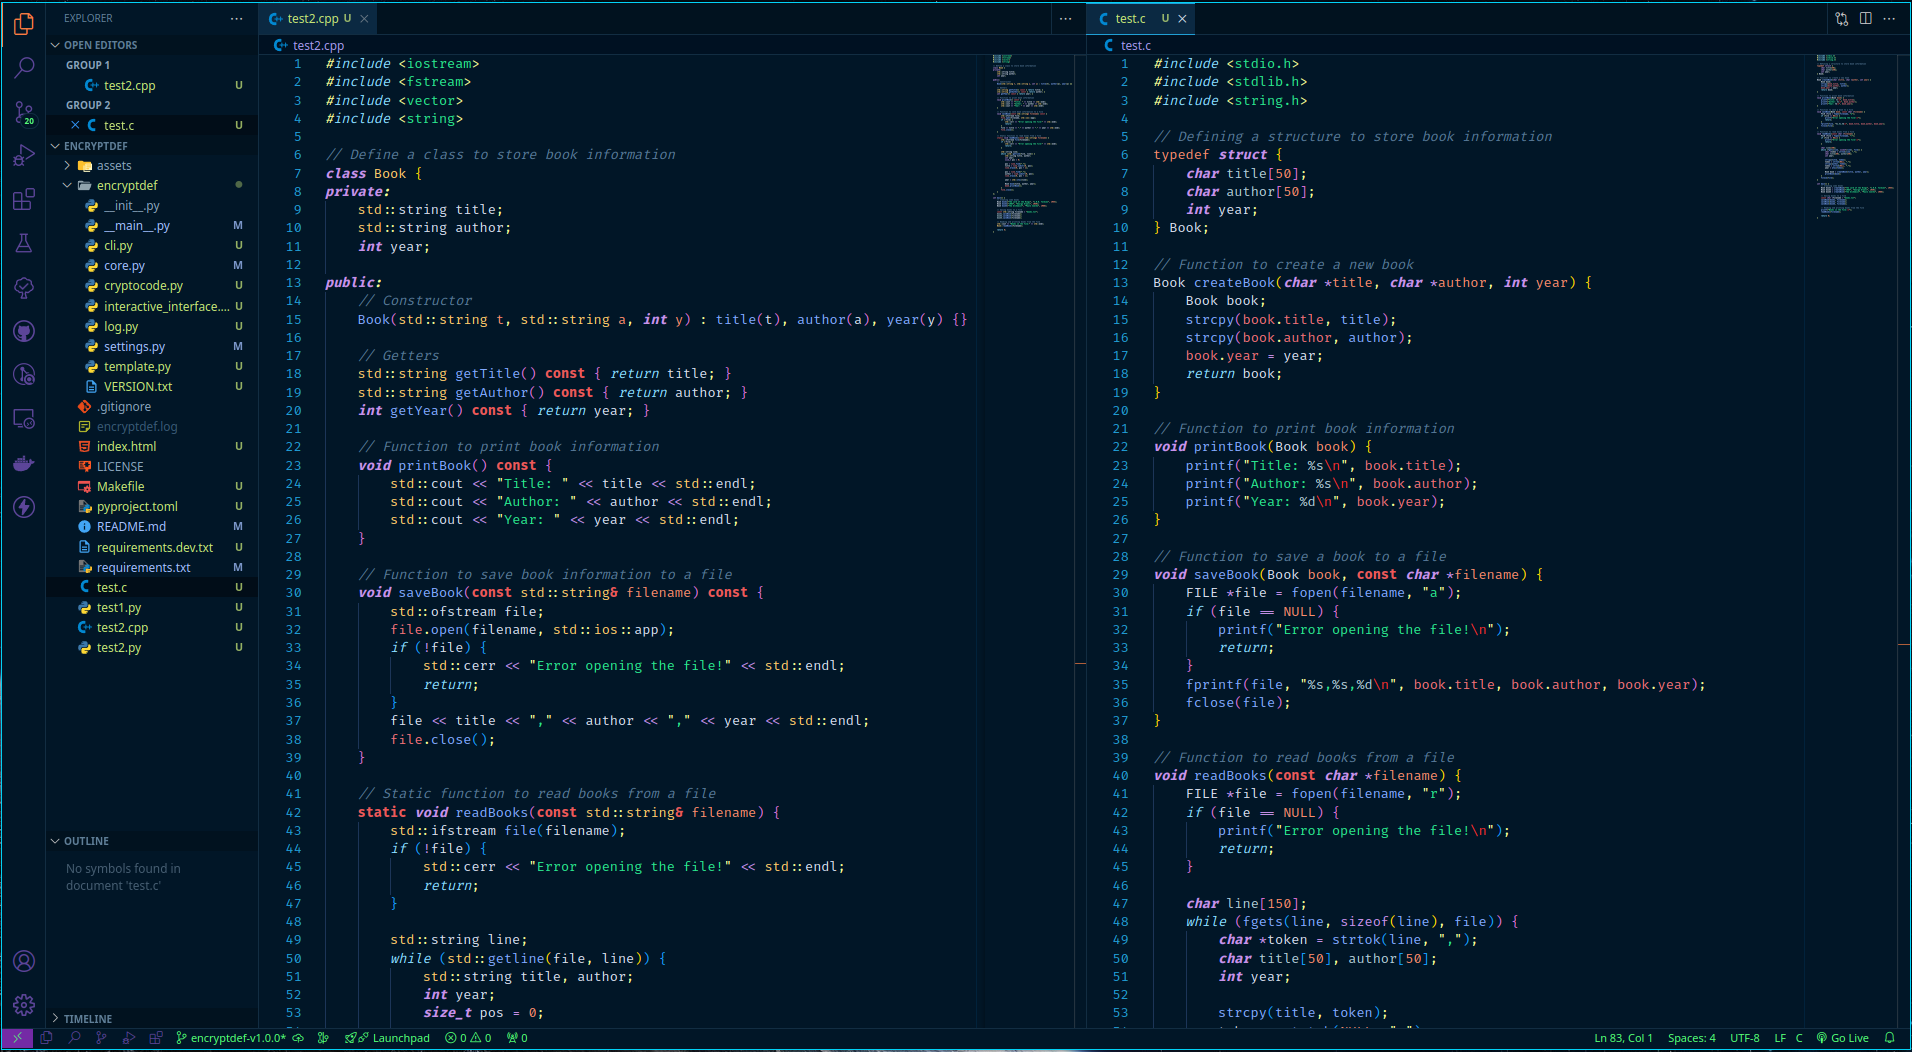
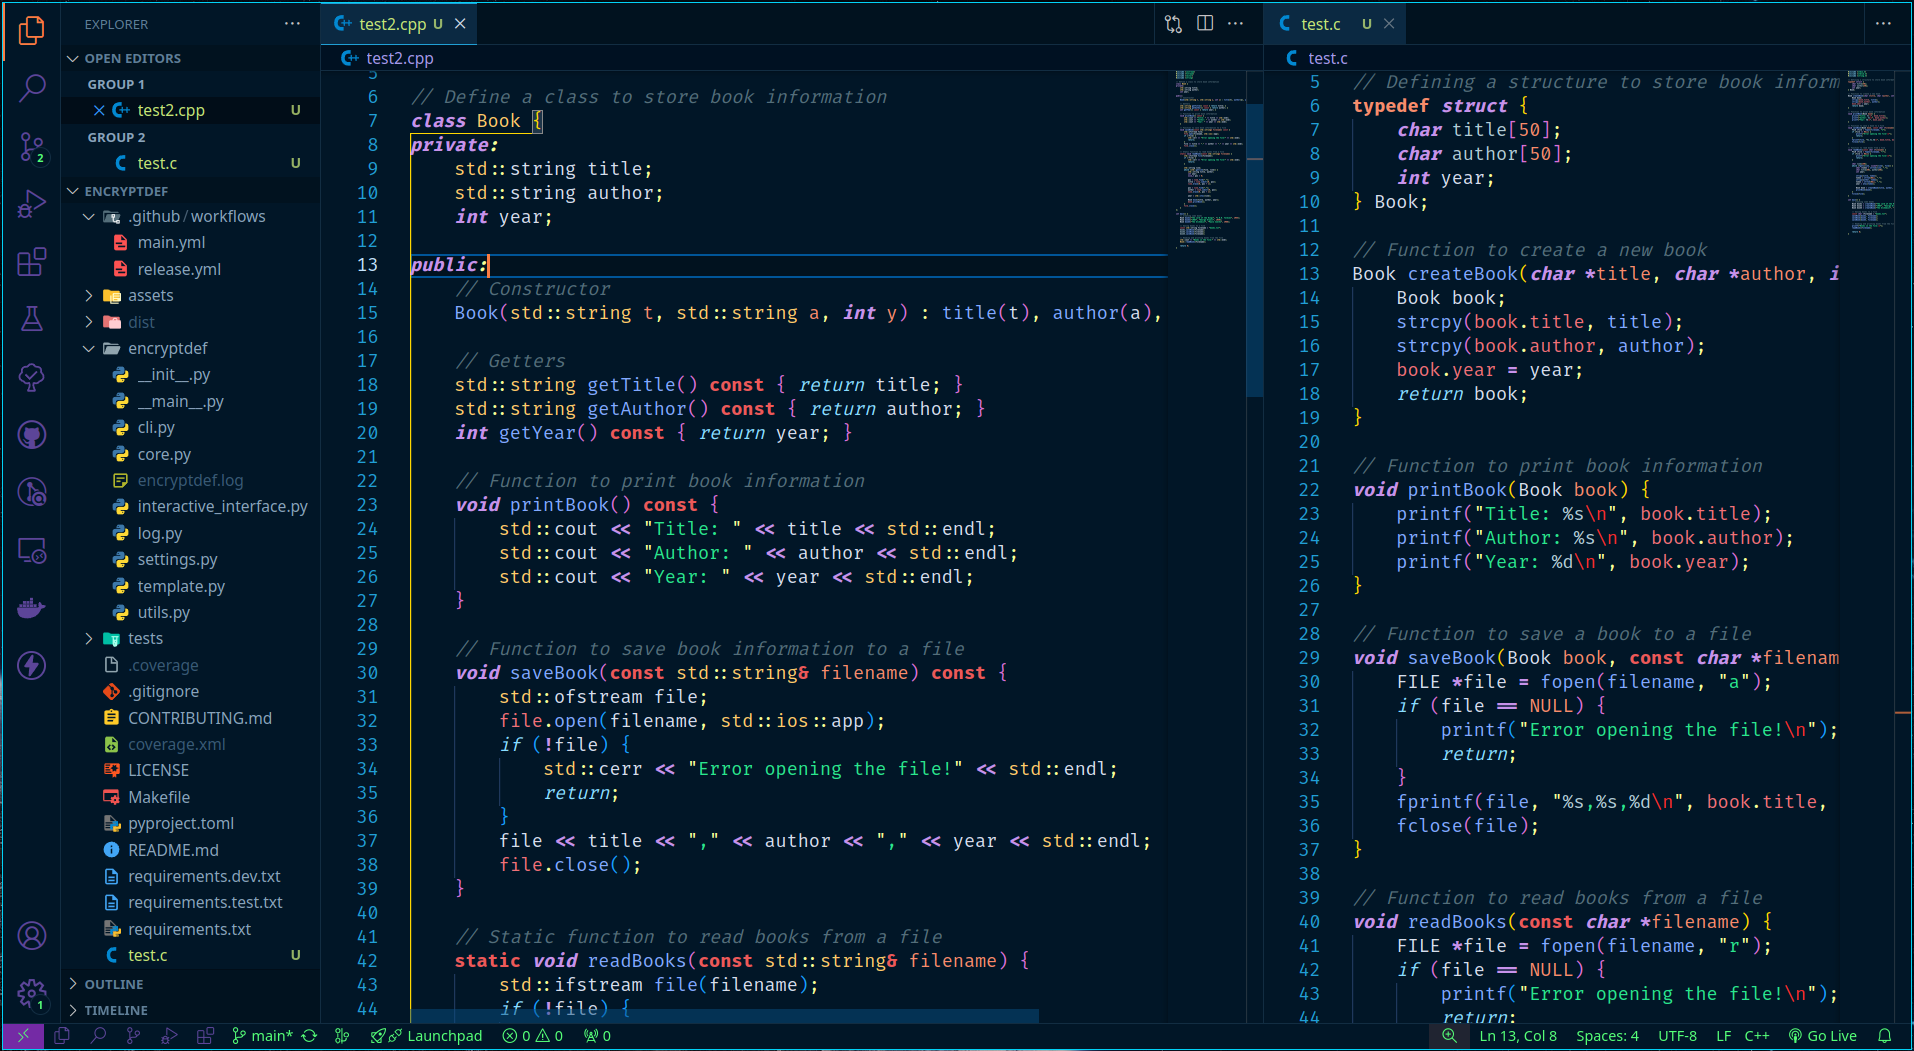
0.3.1 update comment, keyword and Preview

diff --git a/CHANGELOG.md b/CHANGELOG.md
@@ -1,5 +1,11 @@
 # Release Notes
 
+## 0.3.1
+`2024-06-19`
+- Update comment color
+- Update font to bold in keyword
+- Update Preview
+
 ## 0.2.1
 `2024-06-17`
 - Update README
